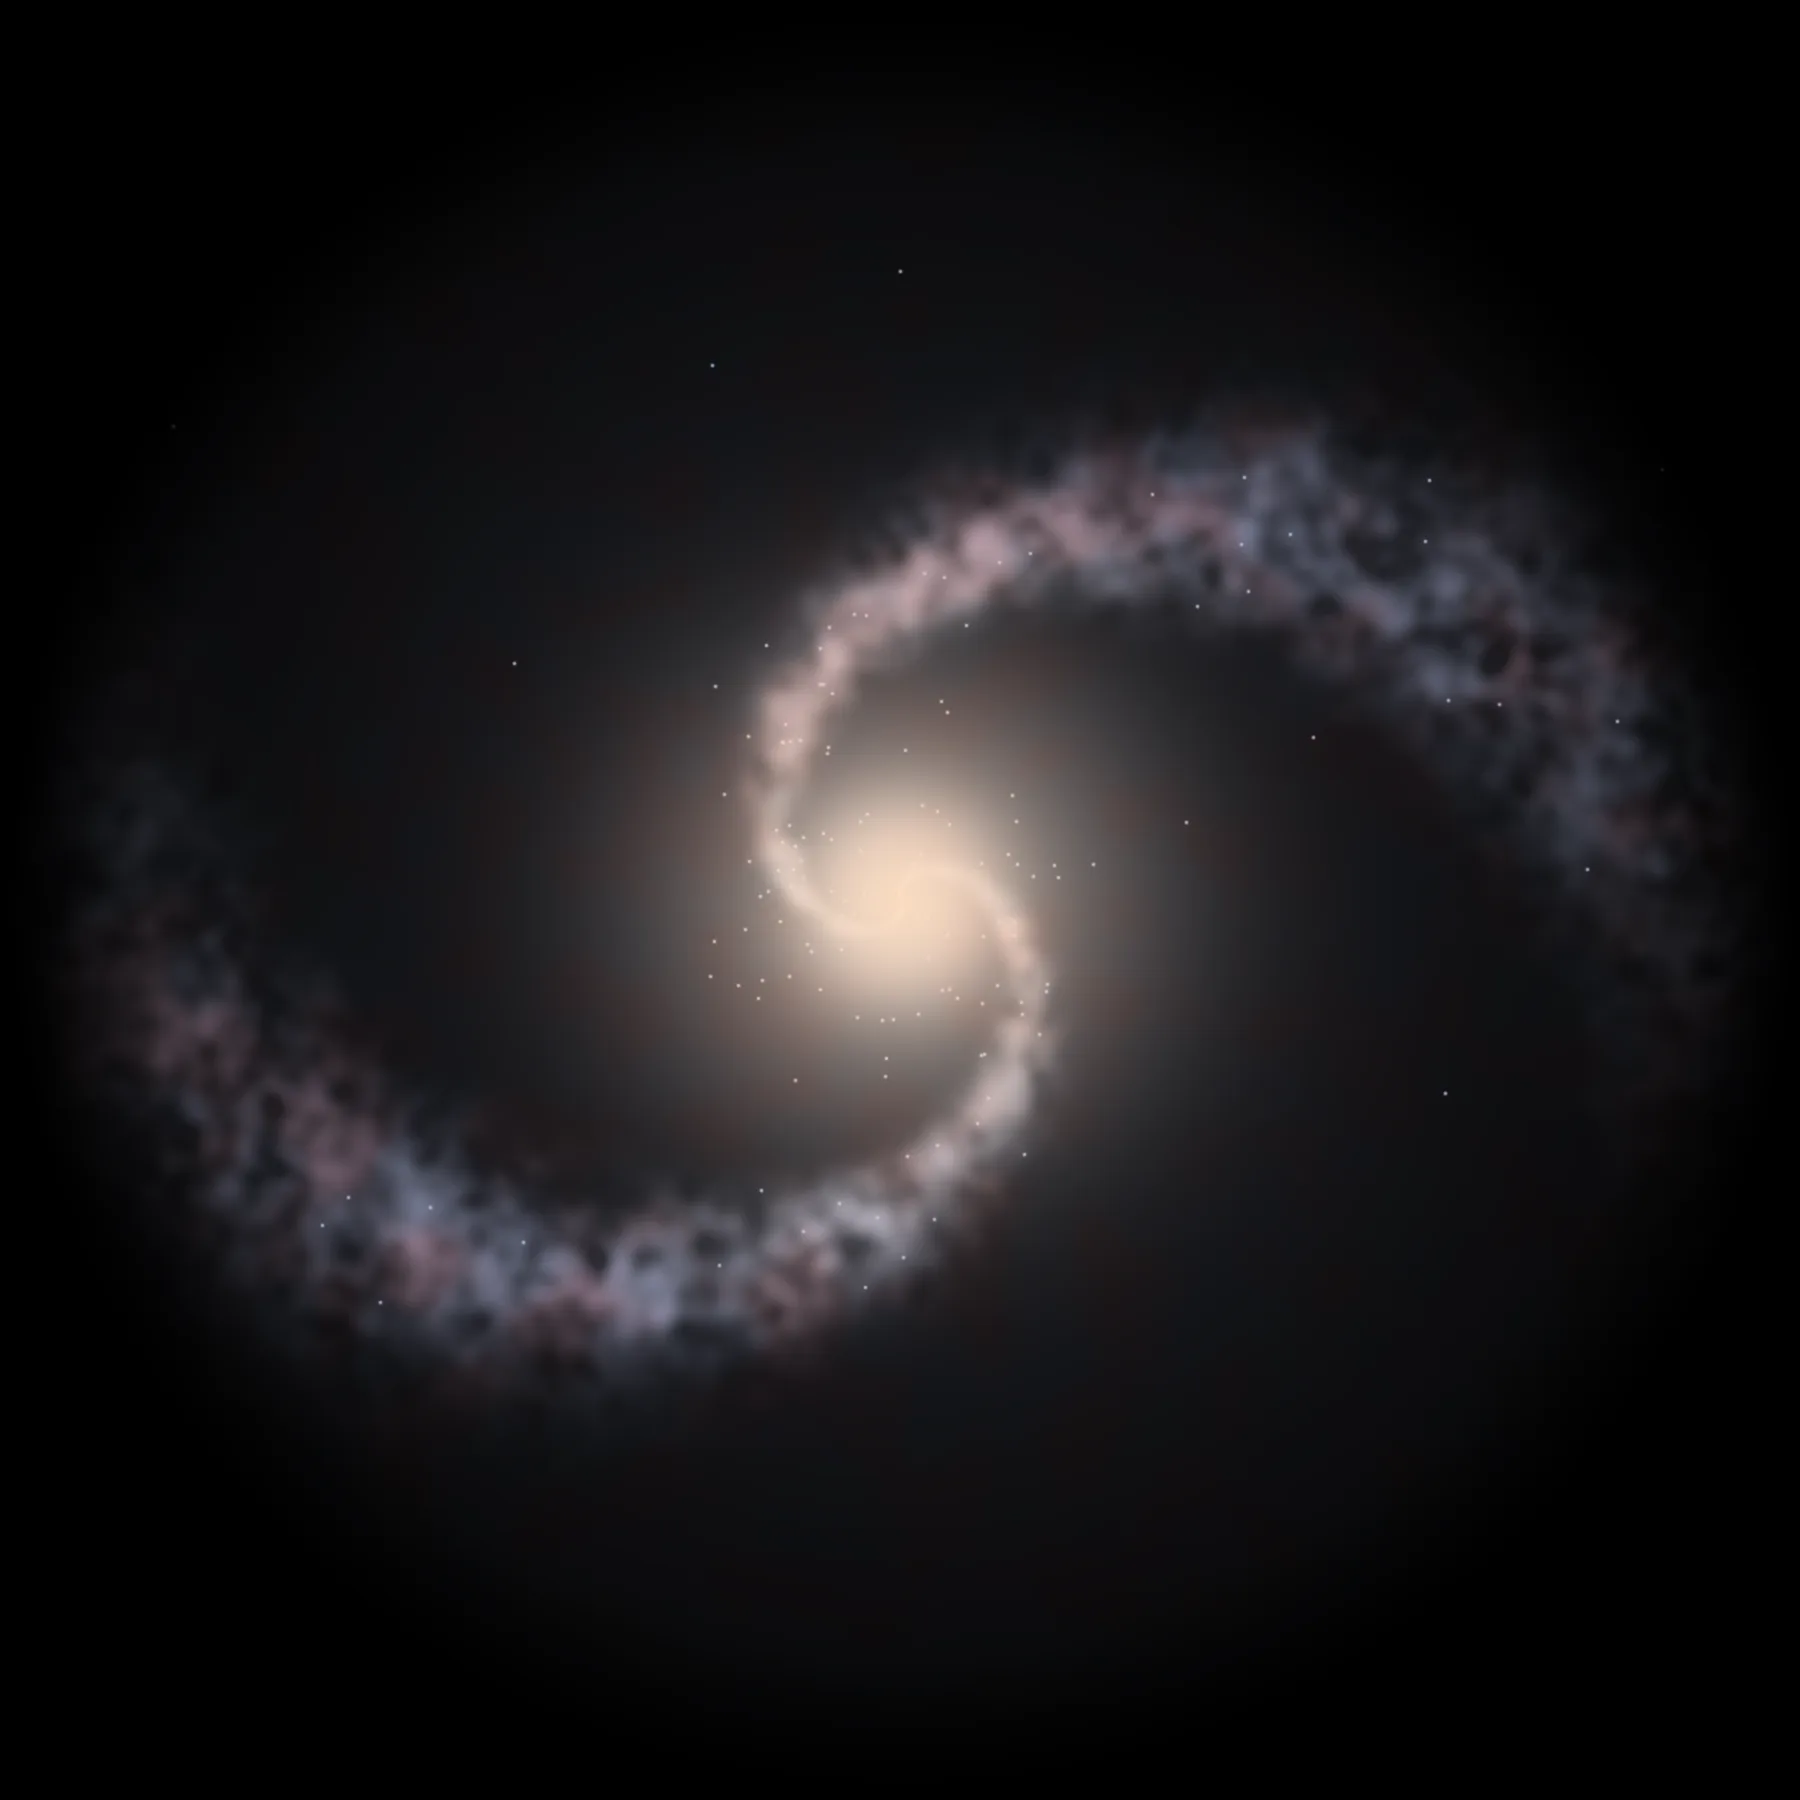
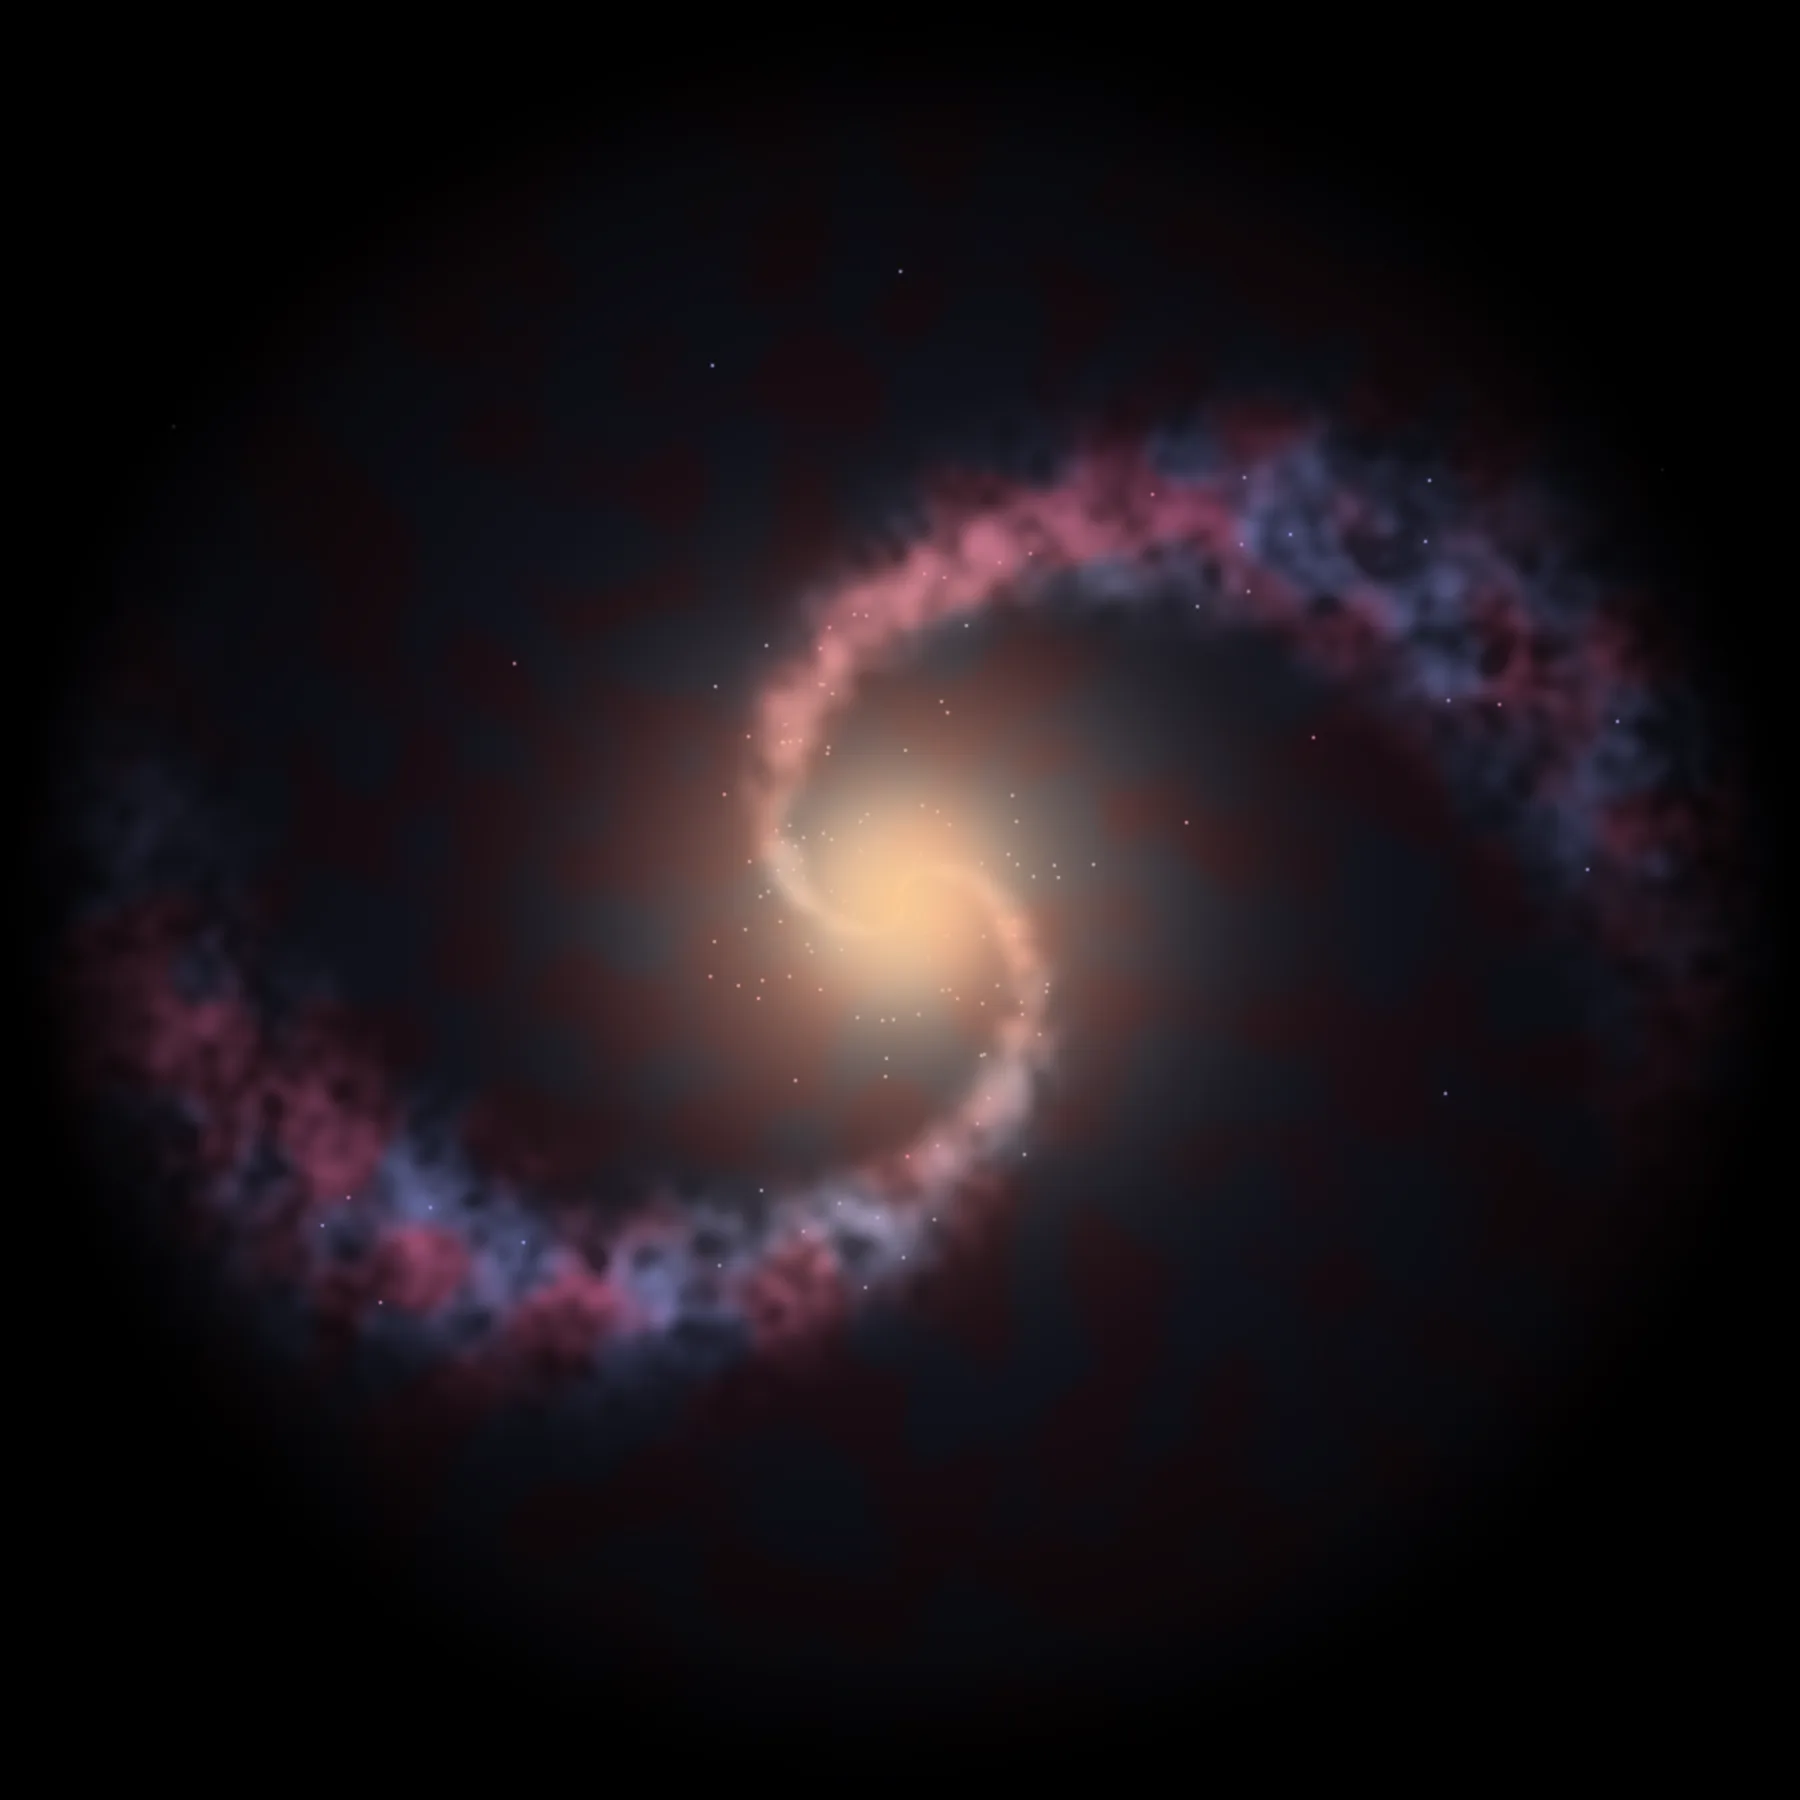
Hull rebuilt as bevelled plating, pylons and chamfered bulkhead beams; pinker galaxy; phone fixes (hero overflow, smaller porthole)

diff --git a/assets/css/style.css b/assets/css/style.css
@@ -97,7 +97,7 @@ body {
   pointer-events: none;
   mix-blend-mode: screen;
   background: url("/assets/img/decor/galaxy.webp") center / contain no-repeat;
-  opacity: 0.34;
+  opacity: 0.42;
 }
 
 @media (prefers-reduced-motion: no-preference) {
@@ -116,20 +116,24 @@ body {
   .galaxy {
     left: 88%;
     top: 28%;
-    opacity: 0.2;
+    opacity: 0.32;
   }
 }
 
-/* Hull and bulkheads. Beside the reading column, a bulkhead seam (a pair of
-   hairlines with a row of rivets between them) and, outside it, hull plating:
-   a dark metal band cut into panels by horizontal joints, each joint carrying
-   its own small rivets. Across the column, every section heading sits under a
-   bulkhead joint, and the header and footer edges carry a rivet row. No text,
-   nothing technical to read. Everything is drawn in CSS gradients. */
+/* Hull. The page is the inside of a ship's bridge, drawn the way a model
+   maker would: slate-blue steel, chunky chamfered beams, plating cut into
+   panels (vents, recessed inserts, a few amber and red indicator lights), all
+   from one tileable greeble texture (assets/img/decor/greeble.webp, generated
+   once, 15 KB) plus bevels. Nothing is text, nothing round: two structural
+   pylons either side of the reading column, plating outside them, a trapezoid
+   beam above every section heading, and the same plating under the header and
+   the footer. Everything sits outside the reading column; on narrow screens
+   the pylons shrink to thin strips at the screen edges. */
 :root {
-  --rivet: rgba(226, 218, 200, 0.34);
-  --seam: rgba(226, 218, 200, 0.16);
-  --panel-h: 15rem;
+  --steel-hi: rgba(170, 196, 224, 0.26);
+  --steel-lo: rgba(0, 0, 0, 0.7);
+  --hull-tile: url("/assets/img/decor/greeble.webp");
+  --pylon-w: 2.4rem;
 }
 
 .hull {
@@ -146,42 +150,35 @@ body {
   bottom: 0;
 }
 
-.hull i {
-  width: 13px;
-  border-left: 1px solid var(--seam);
-  border-right: 1px solid var(--seam);
-  background: radial-gradient(circle, var(--rivet) 1.3px, transparent 2px) center 0 / 13px 28px repeat-y;
-  -webkit-mask-image: linear-gradient(to bottom, transparent, #000 10%, #000 90%, transparent);
-  mask-image: linear-gradient(to bottom, transparent, #000 10%, #000 90%, transparent);
-}
-
-.hull i:nth-of-type(1) { left: calc(50% - var(--max-width) / 2 - 2.5rem); }
-.hull i:nth-of-type(2) { left: calc(50% + var(--max-width) / 2 + 2.5rem - 13px); }
-
-/* Hull plating: the whole margin outside each seam. */
+/* Plating outside the pylons, dimmer toward the screen edge. */
 .hull b {
   width: calc(50% - var(--max-width) / 2 - 2.5rem);
   background:
-    radial-gradient(circle, var(--rivet) 1.2px, transparent 1.9px) 14px 7px / var(--panel-h) var(--panel-h) repeat,
-    linear-gradient(to bottom, transparent calc(var(--panel-h) - 2px), rgba(0, 0, 0, 0.35) calc(var(--panel-h) - 2px), rgba(0, 0, 0, 0.35) calc(var(--panel-h) - 1px), var(--seam) calc(var(--panel-h) - 1px)) 0 0 / 100% var(--panel-h) repeat-y;
+    linear-gradient(var(--plate-fade, to right), rgba(7, 9, 12, 0.88), rgba(7, 9, 12, 0.58)),
+    var(--hull-tile) 0 0 / 300px 300px;
 }
 
-.hull b:nth-of-type(1) {
-  left: 0;
-  background-color: rgba(255, 255, 255, 0.012);
-  mask-image: linear-gradient(to right, #000 30%, transparent);
-  -webkit-mask-image: linear-gradient(to right, #000 30%, transparent);
+.hull b:nth-of-type(1) { left: 0; }
+.hull b:nth-of-type(2) { right: 0; --plate-fade: to left; }
+
+/* Structural pylon: lit from the reading side, cut into segments by dark joints
+   with a highlight under each, and a plated face. */
+.hull i {
+  width: var(--pylon-w);
+  background:
+    linear-gradient(var(--pylon-light, to right), rgba(170, 196, 224, 0.20), rgba(170, 196, 224, 0.03) 70%, rgba(0, 0, 0, 0.35)),
+    repeating-linear-gradient(to bottom, transparent 0, transparent calc(18rem - 4px), var(--steel-lo) calc(18rem - 4px), var(--steel-lo) calc(18rem - 1px), var(--steel-hi) calc(18rem - 1px), var(--steel-hi) 18rem),
+    linear-gradient(rgba(7, 9, 12, 0.5), rgba(7, 9, 12, 0.5)),
+    var(--hull-tile) 0 0 / 190px 190px;
+  box-shadow: inset 2px 0 0 var(--steel-hi), inset -2px 0 0 rgba(0, 0, 0, 0.7), 0 0 1.4rem rgba(0, 0, 0, 0.55);
 }
 
-.hull b:nth-of-type(2) {
-  right: 0;
-  background-color: rgba(255, 255, 255, 0.012);
-  mask-image: linear-gradient(to left, #000 30%, transparent);
-  -webkit-mask-image: linear-gradient(to left, #000 30%, transparent);
-}
+.hull i:nth-of-type(1) { left: calc(50% - var(--max-width) / 2 - 2.5rem - var(--pylon-w)); --pylon-light: to left; }
+.hull i:nth-of-type(2) { left: calc(50% + var(--max-width) / 2 + 2.5rem); --pylon-light: to right; }
+.hull i:nth-of-type(1) { box-shadow: inset -2px 0 0 var(--steel-hi), inset 2px 0 0 rgba(0, 0, 0, 0.7), 0 0 1.4rem rgba(0, 0, 0, 0.55); }
 
-/* Section bulkheads: a joint with its rivet row above every h2 that is a
-   direct child of the page. */
+/* Bulkhead beam above every section heading: a trapezoid (chamfered ends)
+   of plating with a bevel and two indicator lights at its right end. */
 .page > h2,
 .project > h2 {
   position: relative;
@@ -192,36 +189,25 @@ body {
   content: "";
   position: absolute;
   left: 0.6rem;
-  top: -1.6rem;
+  top: -2.1rem;
   width: calc(min(100vw, var(--max-width)) - 2 * var(--space));
-  height: 7px;
-  border-top: 1px solid var(--seam);
-  border-bottom: 1px solid var(--seam);
-  background: radial-gradient(circle, var(--rivet) 1.2px, transparent 1.9px) 0 center / 24px 7px repeat-x;
+  height: 22px;
+  clip-path: polygon(22px 0, calc(100% - 22px) 0, 100% 100%, 0 100%);
+  background:
+    linear-gradient(#f0b050, #f0b050) calc(100% - 44px) 9px / 14px 4px no-repeat,
+    linear-gradient(#e0583a, #e0583a) calc(100% - 70px) 9px / 10px 4px no-repeat,
+    linear-gradient(to bottom, var(--steel-hi), transparent 3px, transparent calc(100% - 3px), var(--steel-lo)),
+    linear-gradient(rgba(7, 9, 12, 0.55), rgba(7, 9, 12, 0.55)),
+    var(--hull-tile) 0 0 / 200px 200px;
   pointer-events: none;
 }
 
-.site-header::after,
-.site-footer::before {
-  content: "";
-  position: absolute;
-  left: 0;
-  right: 0;
-  height: 4px;
-  background: radial-gradient(circle, var(--rivet) 1.1px, transparent 1.7px) 0 center / 22px 4px repeat-x;
-  pointer-events: none;
-}
-
-.site-header::after { bottom: -5px; }
-.site-footer::before { top: 4px; }
-.site-footer { position: relative; }
-
-/* Narrow screens: the seams hug the screen edges and the plating goes. */
+/* Narrow screens: no plating, the pylons shrink to thin strips on the edges. */
 @media (max-width: 82rem) {
+  :root { --pylon-w: 0.7rem; }
   .hull b { display: none; }
-  .hull i { width: 9px; background-size: 9px 28px; }
-  .hull i:nth-of-type(1) { left: 0.3rem; }
-  .hull i:nth-of-type(2) { left: auto; right: 0.3rem; }
+  .hull i:nth-of-type(1) { left: 0; }
+  .hull i:nth-of-type(2) { left: auto; right: 0; }
   .page > h2::before,
   .project > h2::before { left: 0.6rem; width: calc(100vw - 2 * var(--space)); }
 }
@@ -290,10 +276,14 @@ h2:hover {
   top: 0;
   z-index: 20;
   width: 100%;
-  background: rgba(10, 12, 15, 0.78);
+  /* Hull plating under a dark veil, bevelled lower edge (see the Hull block). */
+  background:
+    linear-gradient(rgba(8, 10, 13, 0.9), rgba(8, 10, 13, 0.9)),
+    var(--hull-tile) 0 0 / 360px 360px;
   backdrop-filter: blur(14px) saturate(160%);
   -webkit-backdrop-filter: blur(14px) saturate(160%);
-  border-bottom: 1px solid var(--border);
+  border-bottom: 1px solid var(--steel-hi);
+  box-shadow: 0 2px 0 var(--steel-lo), 0 0.5rem 1.4rem rgba(0, 0, 0, 0.45);
   transition: transform 0.3s var(--ease);
 }
 
@@ -381,7 +371,11 @@ main {
 }
 
 .site-footer {
-  border-top: 1px solid var(--border);
+  border-top: 1px solid var(--steel-hi);
+  background:
+    linear-gradient(rgba(8, 10, 13, 0.9), rgba(8, 10, 13, 0.9)),
+    var(--hull-tile) 0 0 / 360px 360px;
+  box-shadow: inset 0 2px 0 var(--steel-lo);
   color: var(--text-muted);
   text-align: center;
   padding: var(--space);
@@ -1277,6 +1271,14 @@ html {
     gap: 1rem;
   }
 
+  /* The serif name is wider than the old sans one: let it shrink and wrap
+     instead of pushing the medallion past the right edge of the screen. */
+  .hero-liquid-stage h1 {
+    flex: 0 1 auto;
+    min-width: 0;
+    font-size: clamp(1.9rem, 8vw, 2.25rem);
+  }
+
   .hero-liquid-mount {
     /* On desktop the mount comes first in markup and sits to the H1's left;
        on mobile Ruben asked for it on the right instead. flex: 1 1 auto (the
@@ -1719,6 +1721,22 @@ html {
 
 .invader-hint.is-visible {
   opacity: 1;
+}
+
+/* Phones: a smaller, slightly translucent porthole tucked into the corner so
+   it covers as little text as possible. */
+@media (max-width: 48rem) {
+  .invader-toggle {
+    width: 2.7rem;
+    height: 2.7rem;
+    right: 0.9rem;
+    bottom: 0.6rem;
+    opacity: 0.88;
+  }
+
+  .invader-hint {
+    bottom: 3.8rem;
+  }
 }
 
 .invader-easter-egg {
